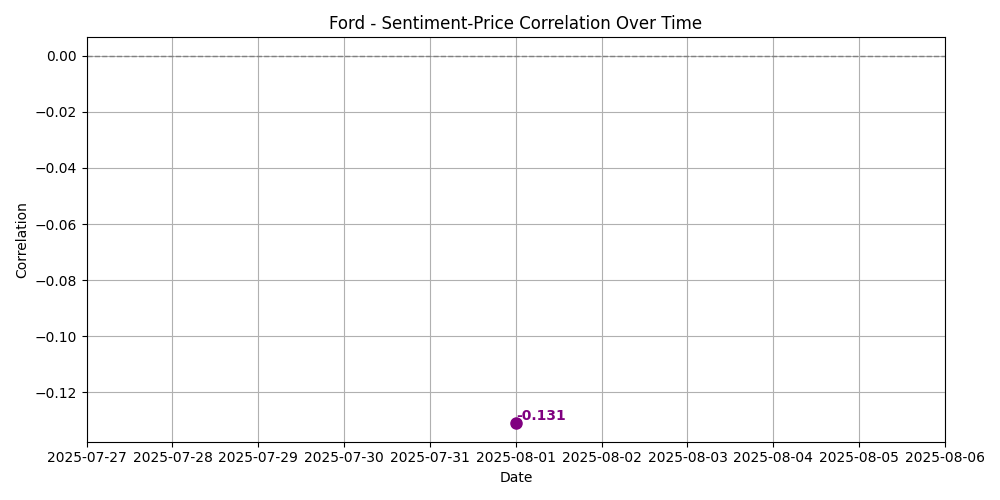
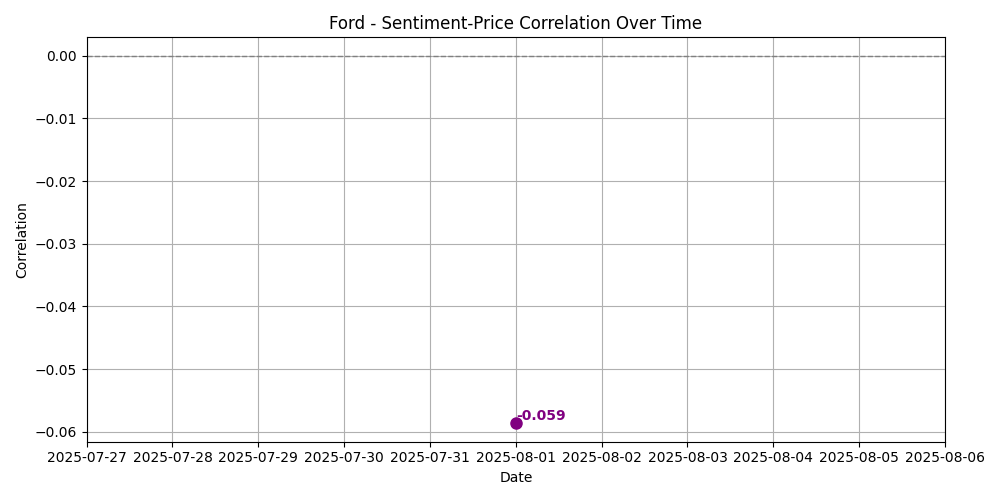
change: scale

diff --git a/analysis/Sentiment.py b/analysis/Sentiment.py
@@ -21,10 +21,9 @@ def analyze_sentiment(news_df: pd.DataFrame) -> pd.DataFrame:
     if "title" not in news_df.columns:
         raise ValueError("News DataFrame must have a 'title' column for sentiment analysis.")
 
-    # Calculate sentiment scores
+    # Calculate TextBlob polarity (-1.0 to 1.0)
     scores = [TextBlob(str(t)).sentiment.polarity for t in news_df["title"].fillna("")]
     news_df["sentiment"] = pd.Series(scores).round(3)
-    news_df["sentiment_score"] = news_df["sentiment"]
 
     # Ensure datetime format
     if "datetime" in news_df.columns:
@@ -36,16 +35,29 @@ def analyze_sentiment(news_df: pd.DataFrame) -> pd.DataFrame:
 
     def classify_row(row):
         title = row["title"]
-        sentiment = row["sentiment_score"]
-        if matches_keywords(title, ECONOMIC_EVENT_KEYWORDS):
-            return "MACRO_EVENT"
-        elif sentiment >= 0.5 or matches_keywords(title, POSITIVE_KEYWORDS):
-            return "BULLISH"
-        elif sentiment <= -0.5 or matches_keywords(title, NEGATIVE_KEYWORDS):
-            return "BEARISH"
-        return None
+        sentiment = row["sentiment"]
 
-    news_df["category"] = news_df.apply(classify_row, axis=1)
+        # Detect macro events
+        if matches_keywords(title, ECONOMIC_EVENT_KEYWORDS):
+            return "MACRO_EVENT", 0  # Neutral for macro news by default
+
+        # Bullish classification
+        if sentiment >= 0.5 or matches_keywords(title, POSITIVE_KEYWORDS):
+            return "BULLISH", 1
+
+        # Bearish classification
+        if sentiment <= -0.5 or matches_keywords(title, NEGATIVE_KEYWORDS):
+            return "BEARISH", -1
+
+        # Neutral
+        return "NEUTRAL", 0
+
+    # Apply classification
+    classified = news_df.apply(classify_row, axis=1)
+    news_df["category"] = classified.apply(lambda x: x[0])
+    news_df["sentiment_score"] = classified.apply(lambda x: x[1])
+
+    # Keep only market-moving or macro news
     filtered_df = news_df[news_df["category"].notnull()].copy()
 
     # Summary logging
@@ -55,20 +67,16 @@ def analyze_sentiment(news_df: pd.DataFrame) -> pd.DataFrame:
     # Format datetime for clean display
     filtered_df["datetime"] = filtered_df["datetime"].dt.strftime("%Y-%m-%d %H:%M")
 
-    # Auto-adjust spacing
+    # Log table view
     col_widths = {
         "datetime": max(filtered_df["datetime"].str.len().max(), len("datetime")),
         "category": max(filtered_df["category"].str.len().max(), len("category")),
         "sentiment_score": max(filtered_df["sentiment_score"].astype(str).str.len().max(), len("sentiment_score")),
     }
-
-    # Build aligned string
-    lines = []
     header = f"{'datetime'.ljust(col_widths['datetime'])}  " \
              f"{'category'.ljust(col_widths['category'])}  " \
              f"{'sentiment_score'.ljust(col_widths['sentiment_score'])}  title"
-    lines.append(header)
-
+    lines = [header]
     for _, row in filtered_df.iterrows():
         lines.append(
             f"{str(row['datetime']).ljust(col_widths['datetime'])}  "
@@ -77,7 +85,6 @@ def analyze_sentiment(news_df: pd.DataFrame) -> pd.DataFrame:
             f"{row['title']}"
         )
 
-    # Log the table
     log.info("\nFiltered Market-Moving News:\n%s", "\n".join(lines))
 
     return filtered_df

diff --git a/main.py b/main.py
@@ -22,13 +22,13 @@ log = logging.getLogger(__name__)
 # Tickers for major index futures
 # Tickers for specific companies instead of index futures
 INDEX_TICKERS = {
-    "Ford": "F",           # Ford Motor CompanyS
+    "Ford": "F",           # Ford Motor Company
     "Microsoft": "MSFT",   # Microsoft
     "Meta": "META"         # Meta Platforms
 }
 
 def main():
-    API_KEY = ""  # Replace with your NewsAPI key
+    API_KEY = "815b8274e8f94a5db950c060865bb3db"  # Replace with your NewsAPI key
     DAYS = 30
     CORR_HISTORY_DIR = "data/historical_correlations"
     CHARTS_DIR = "charts"
